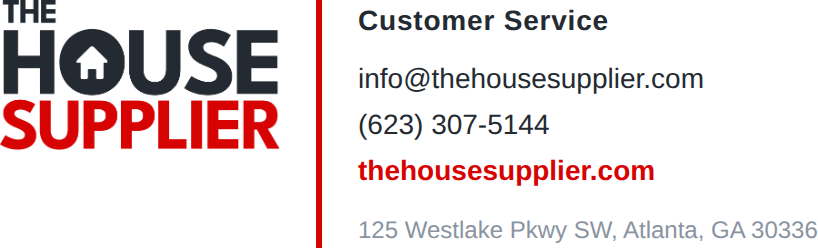
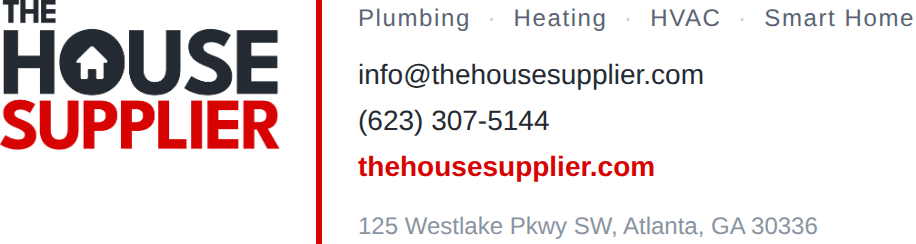
Assinatura: linha de categorias clicaveis no lugar do nome
Plumbing, Heating, HVAC e Smart Home, cada uma ligada a colecao correspondente.
Handles conferidos na API antes de virarem link: plumbing 12951, heating 1181,
hvac 222, smart-home 36 produtos. Separador nao e link. Cor declarada em cada
ancora porque o Gmail repinta link sem cor explicita.

Claude-Session: https://claude.ai/code/session_01UPWTXrstC2Sqk1zwCfCnhH

Changed region(s): [[0.0, 0.0, 1.0, 1.0], [0.8252, 0.0287, 1.0, 0.1148]]

diff --git a/assinatura_ths.html b/assinatura_ths.html
@@ -21,8 +21,15 @@
     <!-- DADOS -->
     <td valign="middle" style="padding:0 0 0 18px;">
 
-      <div style="font-size:14px;line-height:20px;font-weight:bold;color:#242A31;letter-spacing:.4px;">
-        Customer Service<!-- TROCAR ou apagar esta div inteira -->
+      <!-- Linha de categorias. Cada uma leva a colecao correspondente na loja. -->
+      <div style="font-size:12px;line-height:18px;color:#8A93A0;letter-spacing:.8px;">
+        <a href="https://www.thehousesupplier.com/collections/plumbing" style="color:#5A6472;text-decoration:none;">Plumbing</a>
+        <span style="color:#C4CAD3;">&nbsp;&middot;&nbsp;</span>
+        <a href="https://www.thehousesupplier.com/collections/heating" style="color:#5A6472;text-decoration:none;">Heating</a>
+        <span style="color:#C4CAD3;">&nbsp;&middot;&nbsp;</span>
+        <a href="https://www.thehousesupplier.com/collections/hvac" style="color:#5A6472;text-decoration:none;">HVAC</a>
+        <span style="color:#C4CAD3;">&nbsp;&middot;&nbsp;</span>
+        <a href="https://www.thehousesupplier.com/collections/smart-home" style="color:#5A6472;text-decoration:none;">Smart Home</a>
       </div>
 
       <div style="font-size:14px;line-height:23px;color:#242A31;padding-top:8px;">
